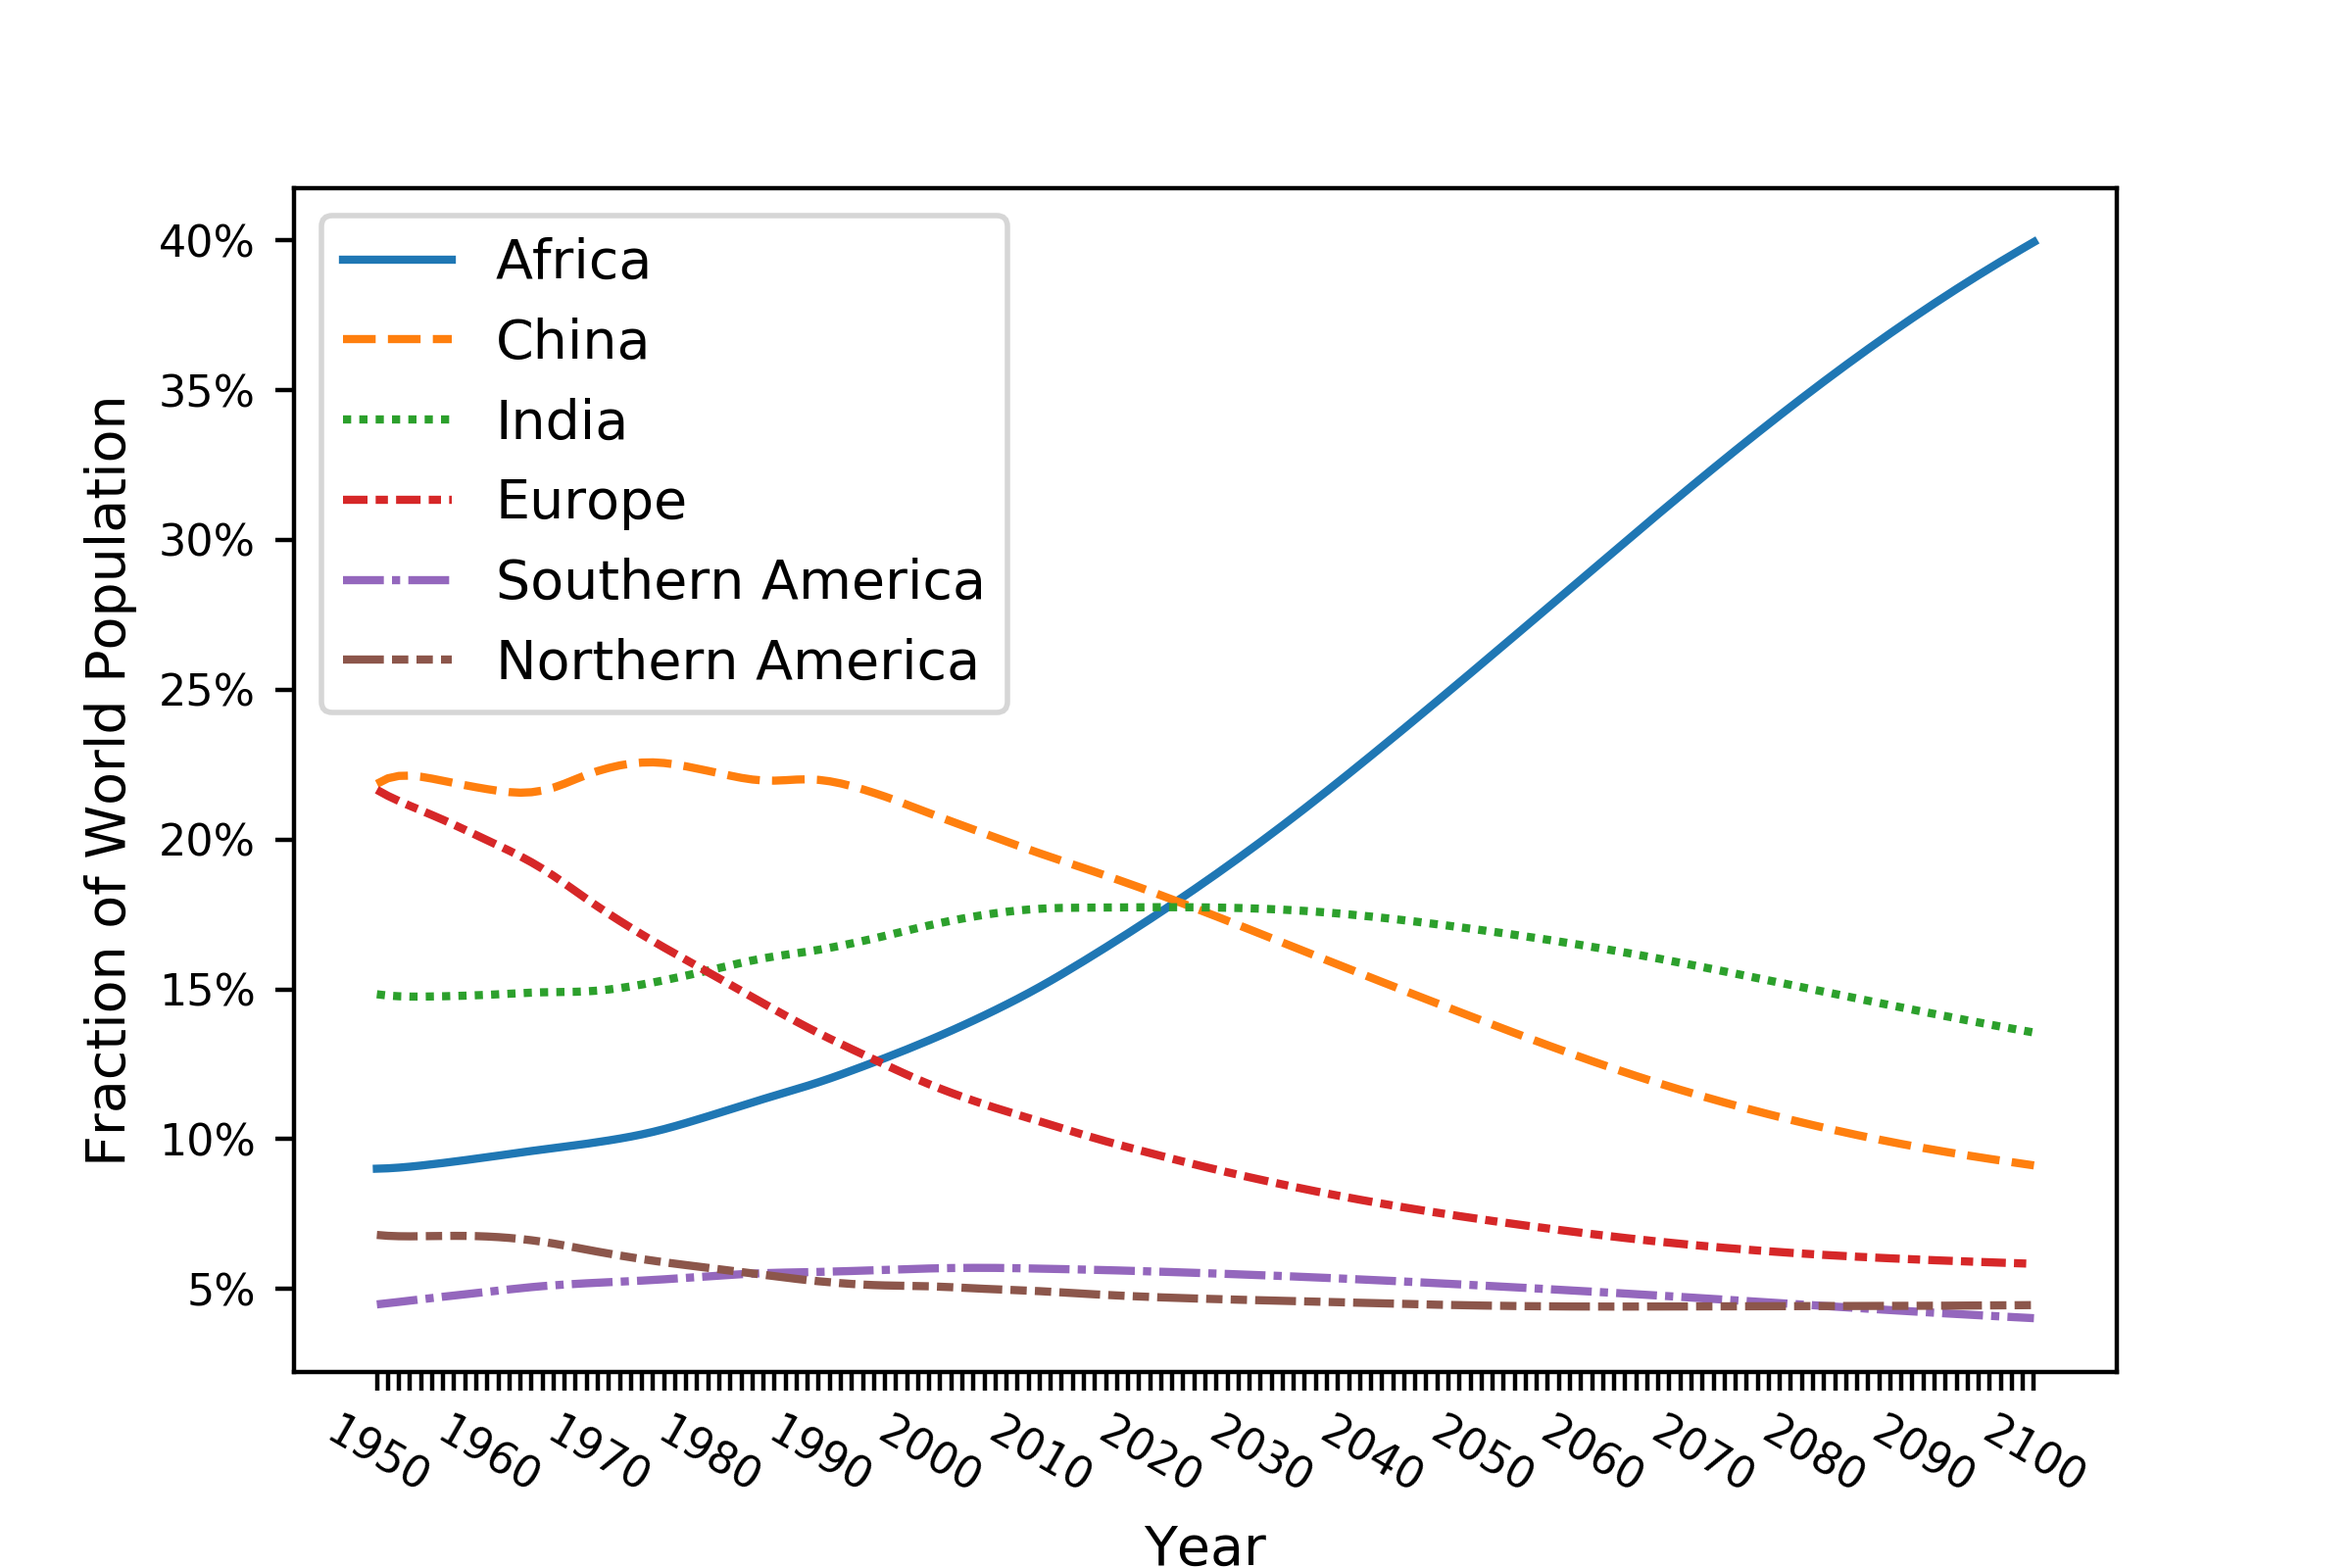
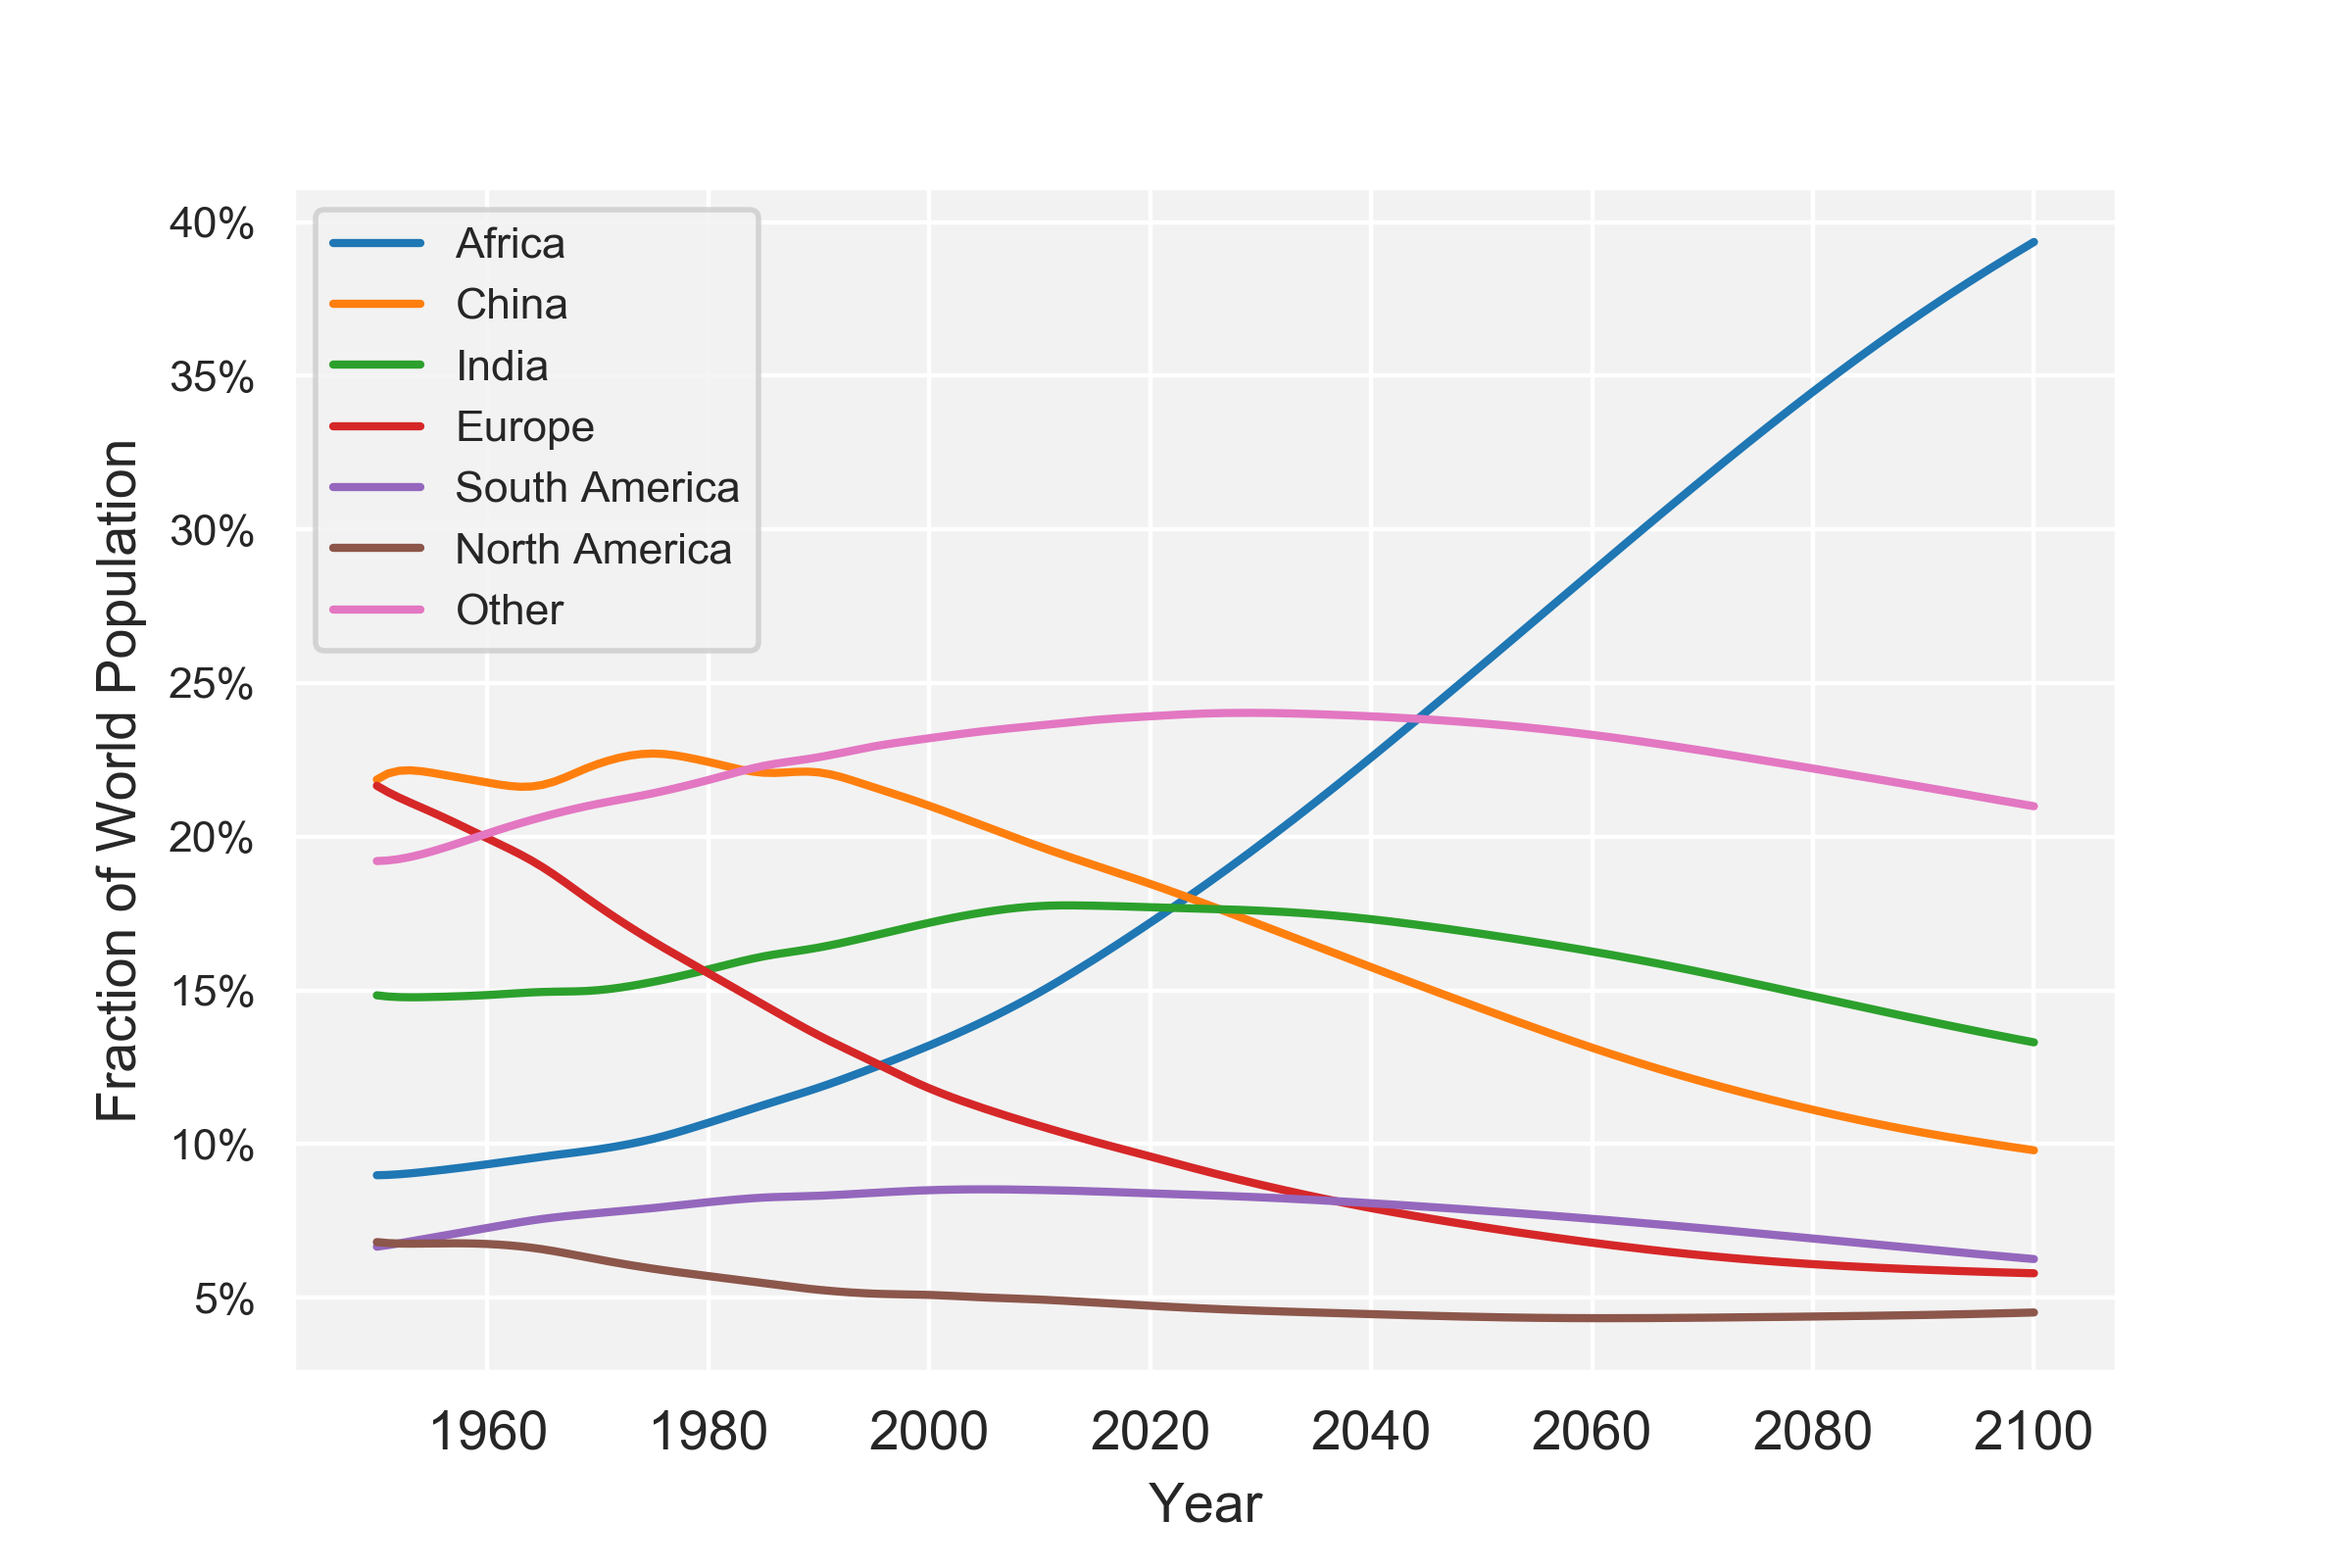
update_Python_Version

diff --git a/Python Version/UN_WPP.py b/Python Version/UN_WPP.py
@@ -1,69 +1,114 @@
-#!/usr/bin/env python
+
 # coding: utf-8
+
+# In[ ]:
 
 import pandas as pd
 import numpy as np
 import requests
 import seaborn as sns
 import matplotlib.pyplot as plt
+get_ipython().magic('matplotlib inline')
 
-# ## Download file from URL and save in directory
-# url = 'https://population.un.org/wpp/DVD/Files/1_Indicators%20(Standard)/EXCEL_FILES/1_Population/WPP2017_POP_F01_1_TOTAL_POPULATION_BOTH_SEXES.xlsx'
-# r = requests.get(url, allow_redirects=True)
-# open('WPP2017_POP_F01_1_TOTAL_POPULATION_BOTH_SEXES.xlsx', 'wb').write(r.content)
 
-## Grab two sheets from the excel file to datafram
+# ### Download file from URL and save in directory
+
+# In[ ]:
+
+url = 'https://population.un.org/wpp/Download/Files/1_Indicators%20(Standard)/EXCEL_FILES/1_Population/WPP2019_POP_F01_1_TOTAL_POPULATION_BOTH_SEXES.xlsx'
+r = requests.get(url, allow_redirects=True)
+open('WPP2019_POP_F01_1_TOTAL_POPULATION_BOTH_SEXES.xlsx', 'wb').write(r.content)
+
+
+# ### Grab two sheets from the excel file to dataframe
+
+# In[ ]:
+
 df1 = pd.read_excel("WPP2017_POP_F01_1_TOTAL_POPULATION_BOTH_SEXES.xlsx", sheet_name="ESTIMATES", header=16, index_col='Region, subregion, country or area *')
 df2 = pd.read_excel("WPP2017_POP_F01_1_TOTAL_POPULATION_BOTH_SEXES.xlsx", sheet_name="MEDIUM VARIANT", header=16, index_col='Region, subregion, country or area *')
 
-## Grap the necessary cells in the right format
-df1 = df1.loc[['WORLD', 'AFRICA', 'China', 'India', 'EUROPE', 'South America', 'NORTHERN AMERICA']]
-df1 = df1.iloc[:,3:]
-df2 = df2.loc[['WORLD', 'AFRICA', 'China', 'India', 'EUROPE', 'South America', 'NORTHERN AMERICA']]
-df2 = df2.iloc[:,5:]
 
-## Merge two sheets
-out = pd.merge(df1, df2, on='Region, subregion, country or area *', how='left')
+# ### Grab the necessary cells in the right format
 
-# ## Output csv file for R plotting
-# pops = out[['1950', '1970', '1990', '2010', '2020', '2040', '2060', '2080', '2010']]
-# pops.to_csv("pops_jump.csv")
+# In[ ]:
 
-## Calculate fraction for each region/country relative to the World population
+df1 = df1.loc[['WORLD','Africa','China','India','Europe','Latin America and the Caribbean','Northern America']]
+df1 = df1.iloc[:,6:]
+df2 = df2.loc[['WORLD','Africa','China','India','Europe','Latin America and the Caribbean','Northern America']]
+df2 = df2.iloc[:,7:]
+
+
+# ### Merge two sheets
+
+# In[ ]:
+
+out = pd.concat([df1, df2], axis=1)
+out.index=['World', 'Africa', 'China', 'India', 'Europe', 'South America', 'North America']
+
+
+# In[ ]:
+
+add = []
+for i in range(len(out.columns)):
+    a = (int(out.iloc[:1,i]) - sum(out.iloc[1:,i]))
+    add.append(a)
+
+
+# In[ ]:
+
+add = pd.DataFrame([add], index=["Other"], columns = out.columns)
+out = pd.concat([out, add], axis=0)
+
+
+# ### Output csv file for R plotting
+
+# In[ ]:
+
+pops = out[['1950', '1970', '1990', '2010', '2020', '2040', '2060', '2080', '2100']]
+pops.to_csv("pops.csv")
+
+
+# ### Calculate fraction for each region/country relative to the World population
+
+# In[ ]:
+
 a = pd.DataFrame()
 
-for i in range(1,7):
+
+# In[ ]:
+
+for i in range(1,8):
     a[i] = out.iloc[i]/out.iloc[0]
 
-a = a.iloc[1:,]
 
-a.columns = ['Africa', 'China', 'India', 'Europe', 'Southern America', 'Northern America']
+# In[ ]:
+
+a.columns = ['Africa', 'China', 'India', 'Europe', 'South America', 'North America', 'Other']
+a = a.apply(pd.to_numeric)
 
 
-## Plot using Seaborn Lineplot
+# ### Plot using Seaborn Lineplot
 
-plot = sns.lineplot(data=a)
+# In[ ]:
 
+sns.set_style("darkgrid", {"axes.facecolor": ".95"})
+plot = sns.lineplot(data=a,dashes=False)
 fig = plot.get_figure()
-
 plot.set_ylabel('Fraction of World Population')
 plot.set_xlabel('Year')
-
+fig.get_axes()[0].legend(loc='upper left', fontsize='8')
 vals = plot.get_yticks()
 plot.set_yticklabels(['{:.0%}'.format(x) for x in vals], fontsize=8)
 
-labels = plot.get_xticklabels()
-for ax in fig.axes:
-    labels = plot.get_xticklabels()
-    for i,l in enumerate(labels):
-        if(i%10 !=0) : labels[i] = ''
-plot.set_xticklabels(labels, rotation=-30, fontsize=8)
+
+# ### Export figure as png file
+
+# In[ ]:
 
 fig.savefig('frac.png', dpi=400)
 
-## Final output in directory
-## - UN WPP excel file
-## - pops_jump.csv for R plotting
-## - frac.png with the line plot
 
-
+# ### Final Outputs
+# - UN WPP excel file
+# - pops.csv for R plotting
+# - frac.png with the line plot
